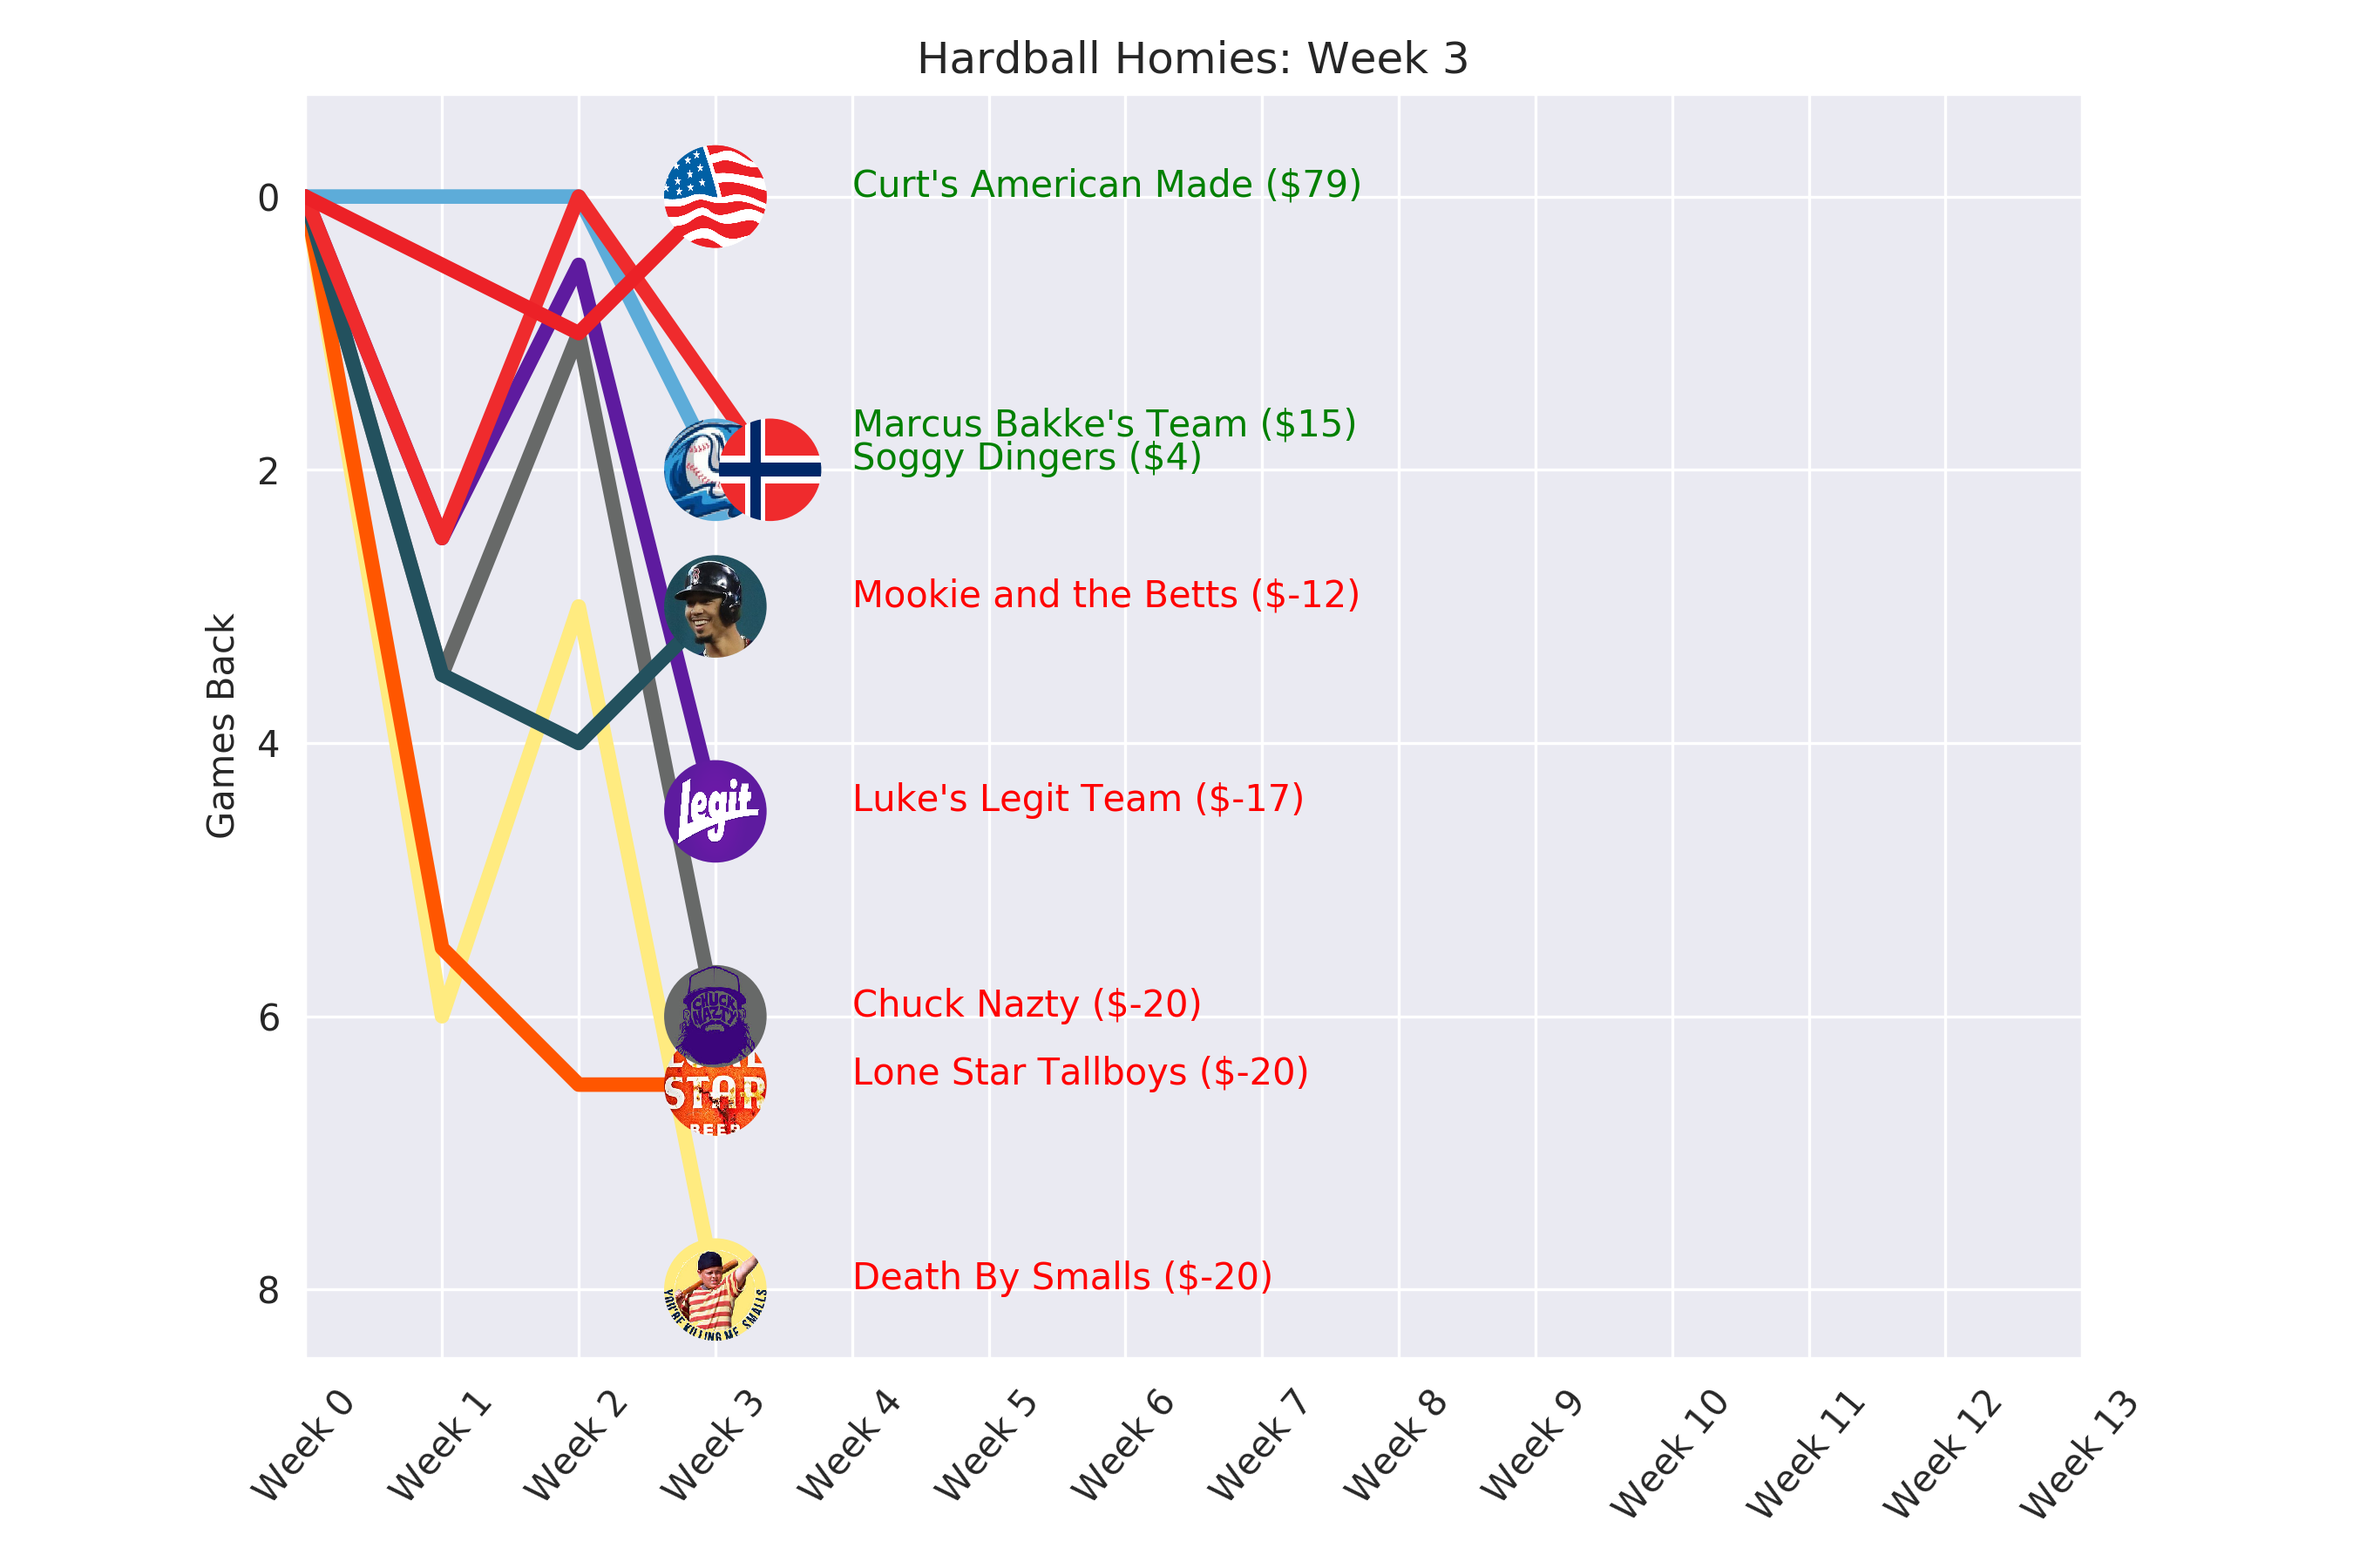
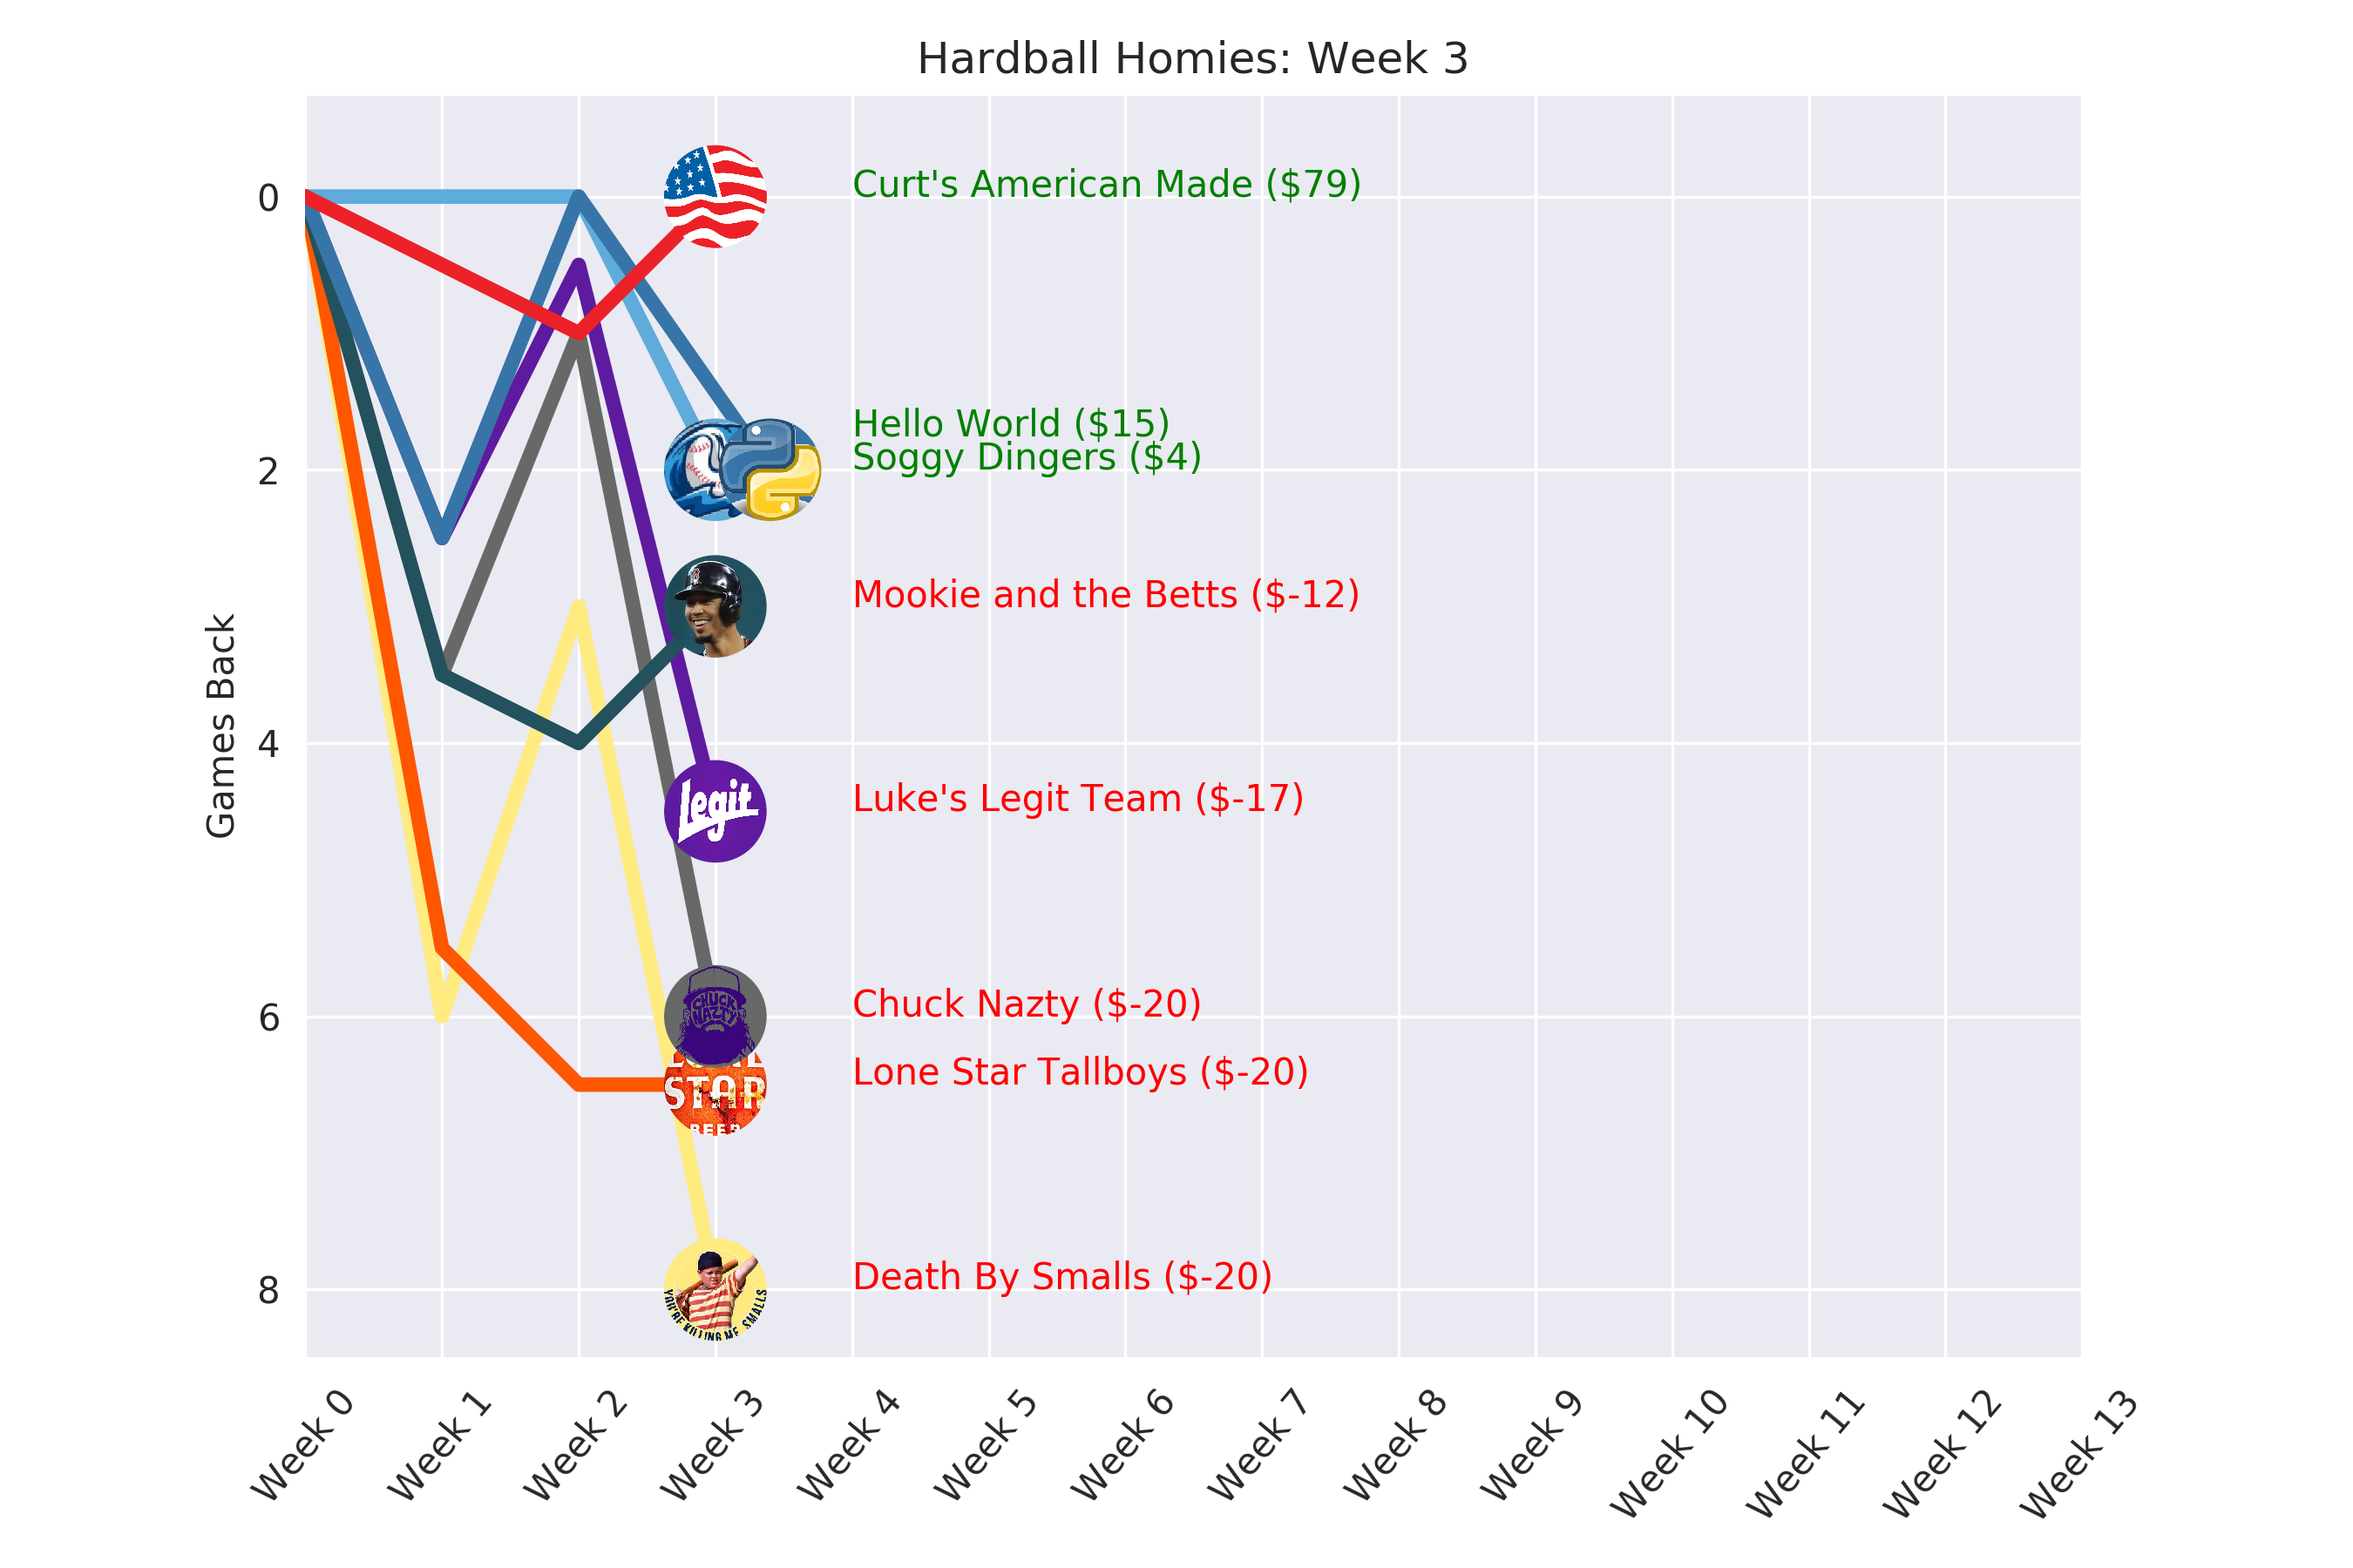
updated marcus' team

diff --git a/commish_corner/process_standings.py b/commish_corner/process_standings.py
@@ -19,7 +19,7 @@ def manual_info():
         'Soggy Dingers',
         "Curt's American Made",
         "Luke's Legit Team",
-        "Marcus Bakke's Team",
+        "Hello World",
         "Mookie and the Betts",
         "Chuck Nazty",
         "Lone Star Tallboys",
